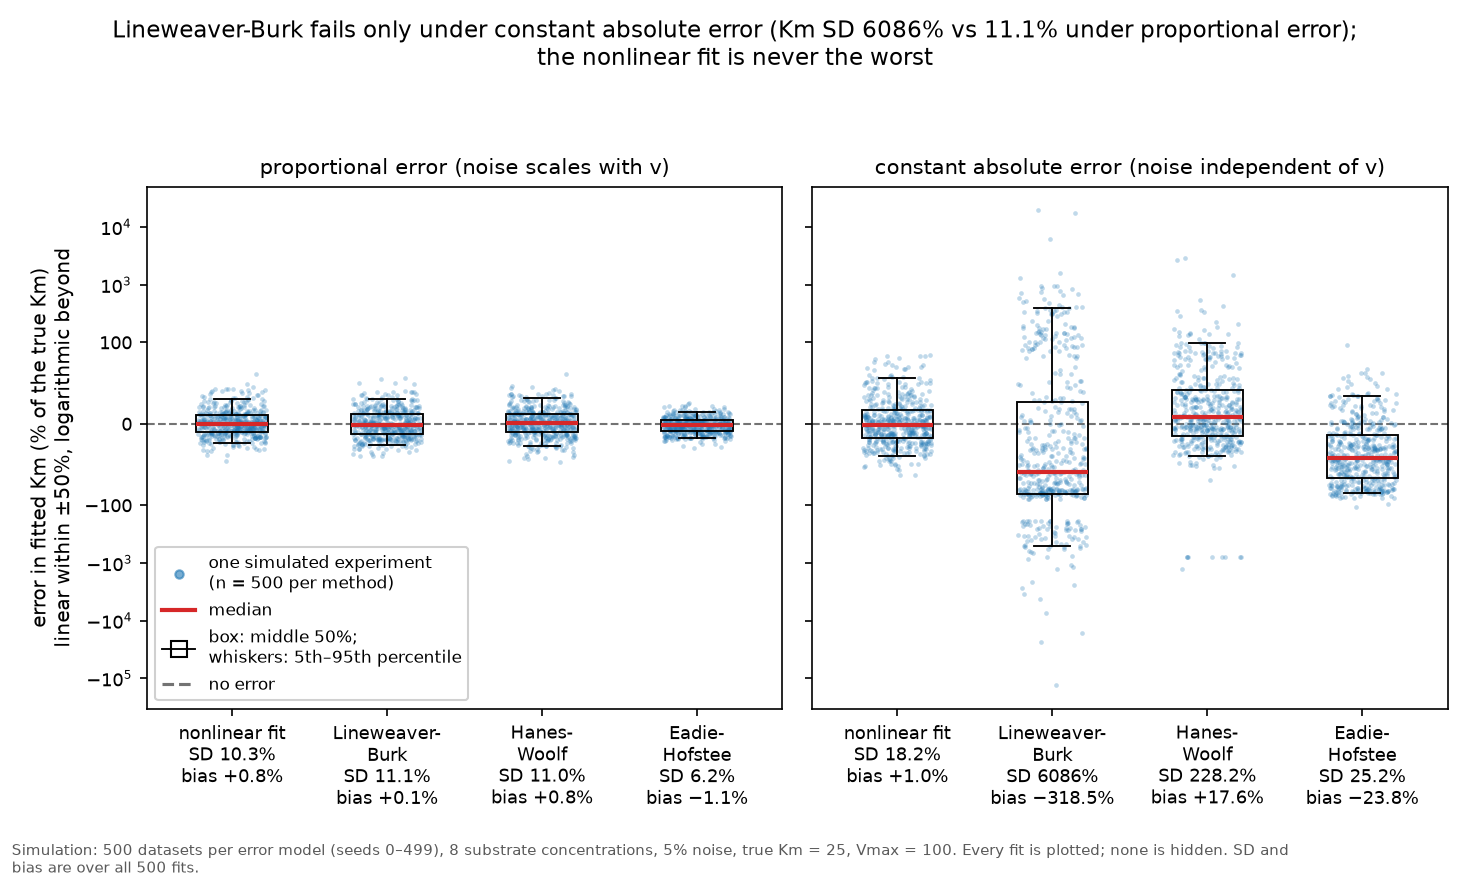
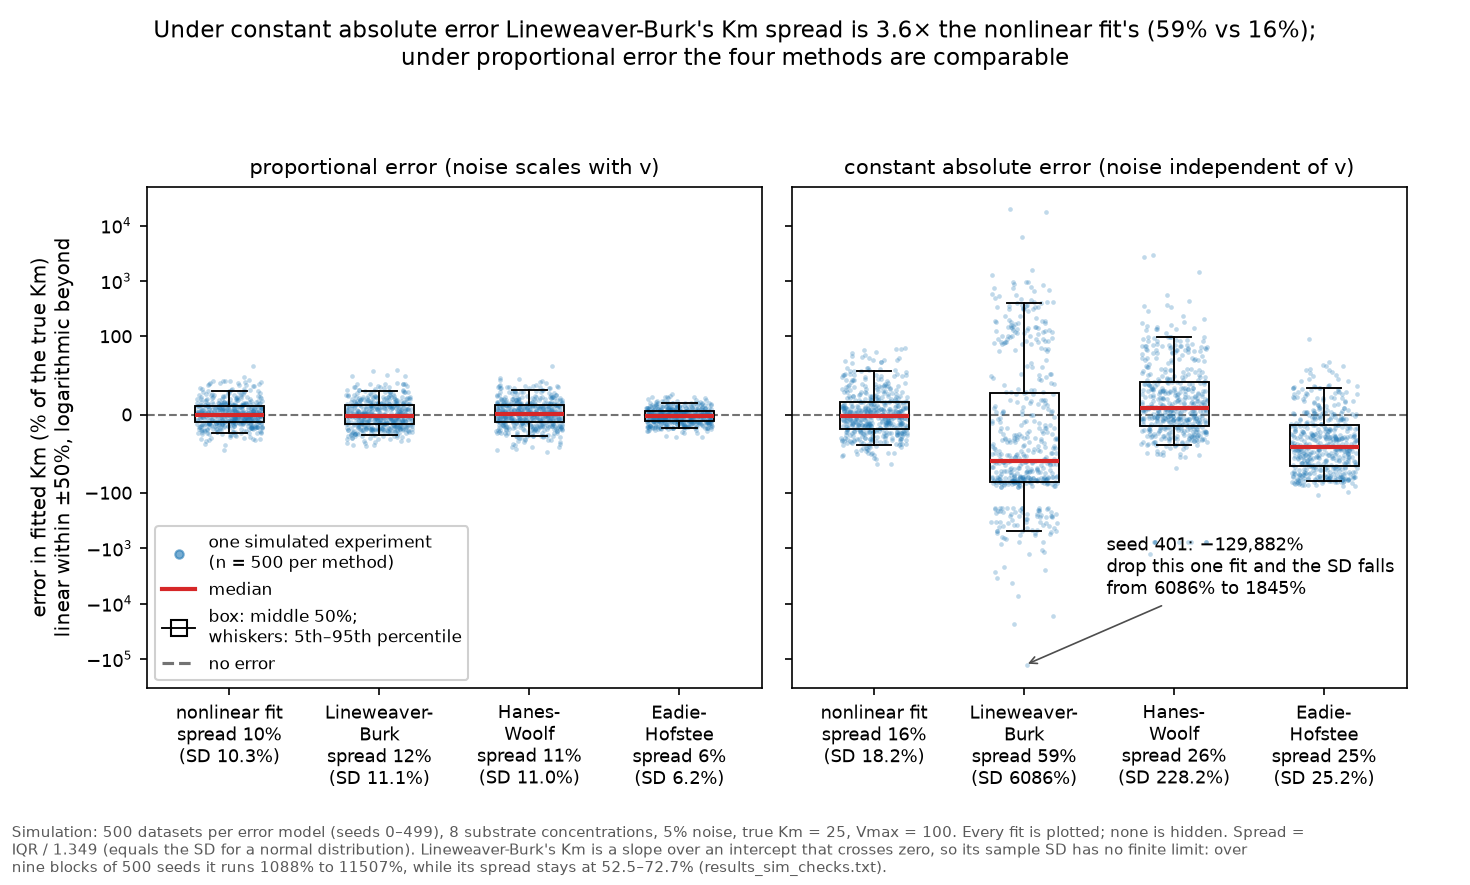
Lead figure: lead with the stable spread, show what the 6086% is made of
km_recovery.png's title said Lineweaver-Burk "fails only under constant
absolute error (Km SD 6086% ...); the nonlinear fit is never the
worst". The 6086% is the sample SD of an estimator with no finite
variance (1845% without seed 401; 1088% to 11507% across nine seed
blocks), "only" covers two error models and one design, and "never the
worst" also holds for Hanes-Woolf.

make_figures.py now titles the figure with the tail-insensitive spread
(IQR / 1.349: 59% vs 16%, 3.6x), labels each box with that spread and
the sample SD in brackets, marks the seed-401 fit and what removing it
does to the SD, and quotes the nine-block range from
results_sim_checks.txt in the footer. No plotted value changes: the
points, boxes and whiskers are the same 500 fits per method. The PNG
regenerates byte-identically from committed artefacts;
check_figures.py reports no layout change in the other ten.

diff --git a/scripts/make_figures.py b/scripts/make_figures.py
@@ -580,6 +580,12 @@ def km_recovery_errors(noise_type):
     return {k: np.array(v) for k, v in errs.items()}
 
 
+def _robust_sd(x):
+    """IQR / 1.349, the same definition as scripts/sim_checks.py."""
+    q1, q3 = np.percentile(x, [25, 75])
+    return (q3 - q1) / 1.349
+
+
 def _pct_label(v, _pos=None):
     if v == 0:
         return "0"
@@ -614,8 +620,10 @@ def fig_km_recovery():
                        medianprops=dict(color="C3", linewidth=2.0))
             sd = e.std()
             sd_txt = f"{sd:.0f}%" if sd >= 1000 else f"{sd:.1f}%"
-            bias_txt = f"{e.mean():+.1f}%".replace("-", MINUS)
-            labels.append(f"{label}\nSD {sd_txt}\nbias {bias_txt}")
+            # Lead with the tail-insensitive spread (IQR / 1.349): it is stable
+            # across seed blocks; the sample SD is printed second because for
+            # Lineweaver-Burk under absolute error it has no finite limit.
+            labels.append(f"{label}\nspread {_robust_sd(e):.0f}%\n(SD {sd_txt})")
         ax.set_xticks(range(len(METHODS)))
         ax.set_xticklabels(labels, fontsize=FS_NOTE)
         ax.set_xlim(-0.55, len(METHODS) - 0.45)
@@ -625,11 +633,25 @@ def fig_km_recovery():
         ax.yaxis.set_minor_locator(NullLocator())
     axes[0].set_ylabel("error in fitted Km (% of the true Km)\n"
                        "linear within \u00b150%, logarithmic beyond")
-    sd_lb_abs = data["absolute"]["lineweaver_burk"].std()
-    sd_lb_rel = data["relative"]["lineweaver_burk"].std()
-    fig.suptitle("Lineweaver-Burk fails only under constant absolute error "
-                 f"(Km SD {sd_lb_abs:.0f}% vs {sd_lb_rel:.1f}% under proportional error);\n"
-                 "the nonlinear fit is never the worst", fontsize=FS_SUPTITLE)
+    lb_abs = data["absolute"]["lineweaver_burk"]
+    nl_abs = data["absolute"]["nonlinear"]
+    r_lb, r_nl = _robust_sd(lb_abs), _robust_sd(nl_abs)
+    i_ext = int(np.argmax(np.abs(lb_abs)))
+    sd_wo = np.delete(lb_abs, i_ext).std()
+    sim = _text("results_sim_checks.txt")
+    blk = _grab(sim, r"LB sample SD (\d+)% to (\d+)%, LB robust SD ([\d.]+)% to ([\d.]+)%",
+                "nine-block range")
+    fig.suptitle("Under constant absolute error Lineweaver-Burk's Km spread is "
+                 f"{r_lb / r_nl:.1f}\u00d7 the nonlinear fit's ({r_lb:.0f}% vs {r_nl:.0f}%);\n"
+                 "under proportional error the four methods are comparable",
+                 fontsize=FS_SUPTITLE)
+    ax = axes[1]
+    ax.annotate(f"seed {i_ext}: {lb_abs[i_ext]:,.0f}%\n"
+                f"drop this one fit and the SD falls\n"
+                f"from {lb_abs.std():.0f}% to {sd_wo:.0f}%".replace("-", MINUS),
+                xy=(1, lb_abs[i_ext]), xytext=(1.55, -2.2e3), fontsize=FS_NOTE,
+                ha="left", va="center",
+                arrowprops=dict(arrowstyle="->", color="0.3", lw=0.8))
     handles = [
         Line2D([], [], marker="o", ls="", color="C0", alpha=0.6, ms=4,
                label=f"one simulated experiment\n(n = {N_TRIALS} per method)"),
@@ -642,7 +664,11 @@ def fig_km_recovery():
                    framealpha=0.92, edgecolor="0.8")
     _finish(fig, f"Simulation: {N_TRIALS} datasets per error model (seeds 0\u2013499), 8 substrate "
                  f"concentrations, {NOISE:.0%} noise, true Km = {TRUE_KM:g}, Vmax = {TRUE_VMAX:g}. "
-                 "Every fit is plotted; none is hidden. SD and bias are over all 500 fits.")
+                 "Every fit is plotted; none is hidden. Spread = IQR / 1.349 (equals the SD "
+                 "for a normal distribution). Lineweaver-Burk's Km is a slope over an intercept "
+                 "that crosses zero, so its sample SD has no finite limit: over nine blocks of "
+                 f"500 seeds it runs {blk[1]}% to {blk[2]}%, while its spread stays at "
+                 f"{blk[3]}\u2013{blk[4]}% (results_sim_checks.txt).")
     return fig
 
 
@@ -871,7 +897,7 @@ def fig_ic50_conversion():
 FIGURES = {
     "km_recovery.png": (
         fig_km_recovery,
-        "Lineweaver-Burk fails only under constant absolute error",
+        "under constant absolute error LB's Km spread is 3.6x the nonlinear fit's (59% vs 16%)",
         "seeded simulation (src/enzkin/simulate.py)"),
     "mm_fit.png": (
         fig_mm_fit,
